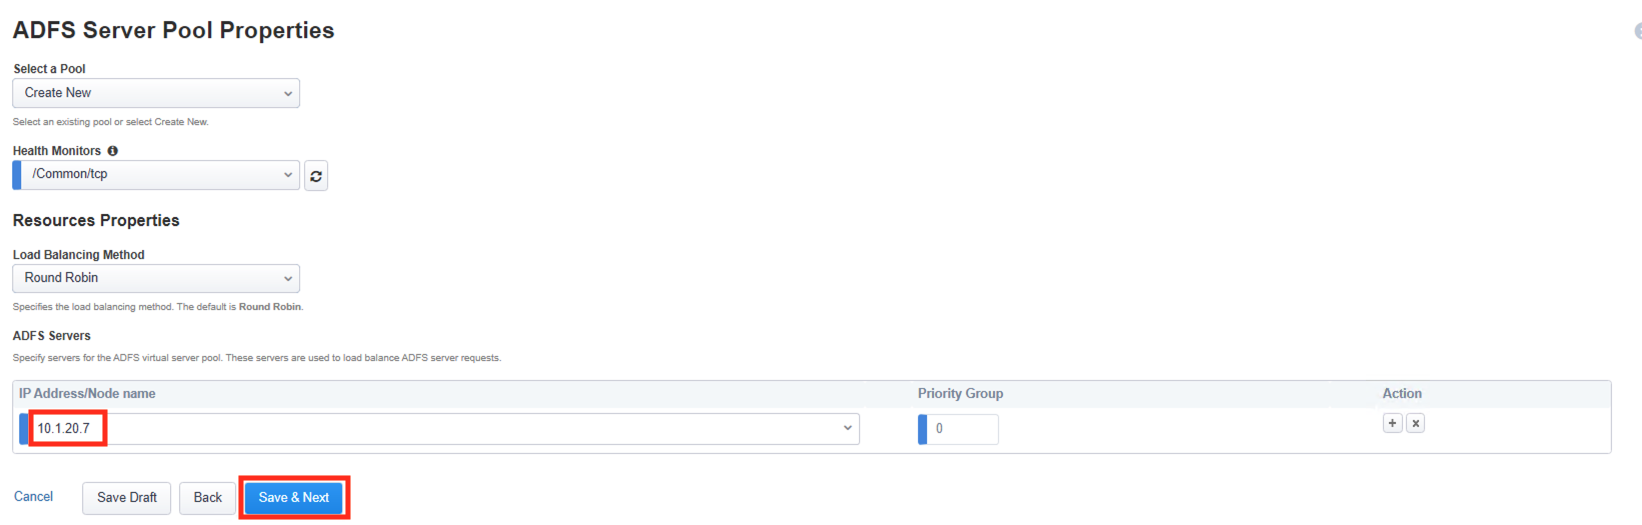
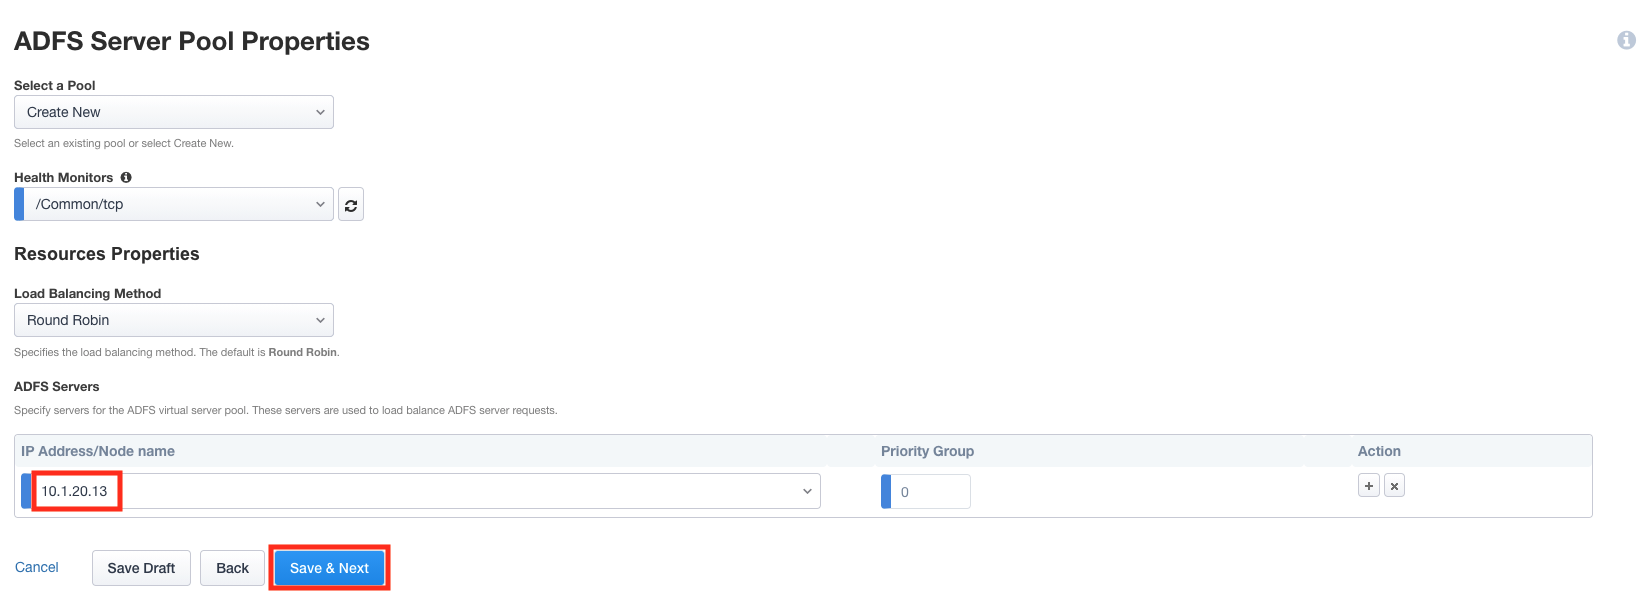
adfs draft 5

diff --git a/class2/module4/lab02.rst b/class2/module4/lab02.rst
@@ -99,13 +99,13 @@ Task 4 - Virtual Server Properties
 Task 5 - ADFS Server Pool Properties
 ~~~~~~~~~~~~~~~~~~~~~~~~~~~~~~~~~~~~~~
 
-#. Enter the IP address **10.1.20.7**
+#. Enter the IP address **10.1.20.13**
 #. Click **Save & Next**
 
     |image014|
 
 Task 6 - Summary
-~~~~~~~~~~~~~~~~~~~~~~~~
+~~~~~~~~~~~~~~~~~~~
 
 #. Click **Deploy**
 
